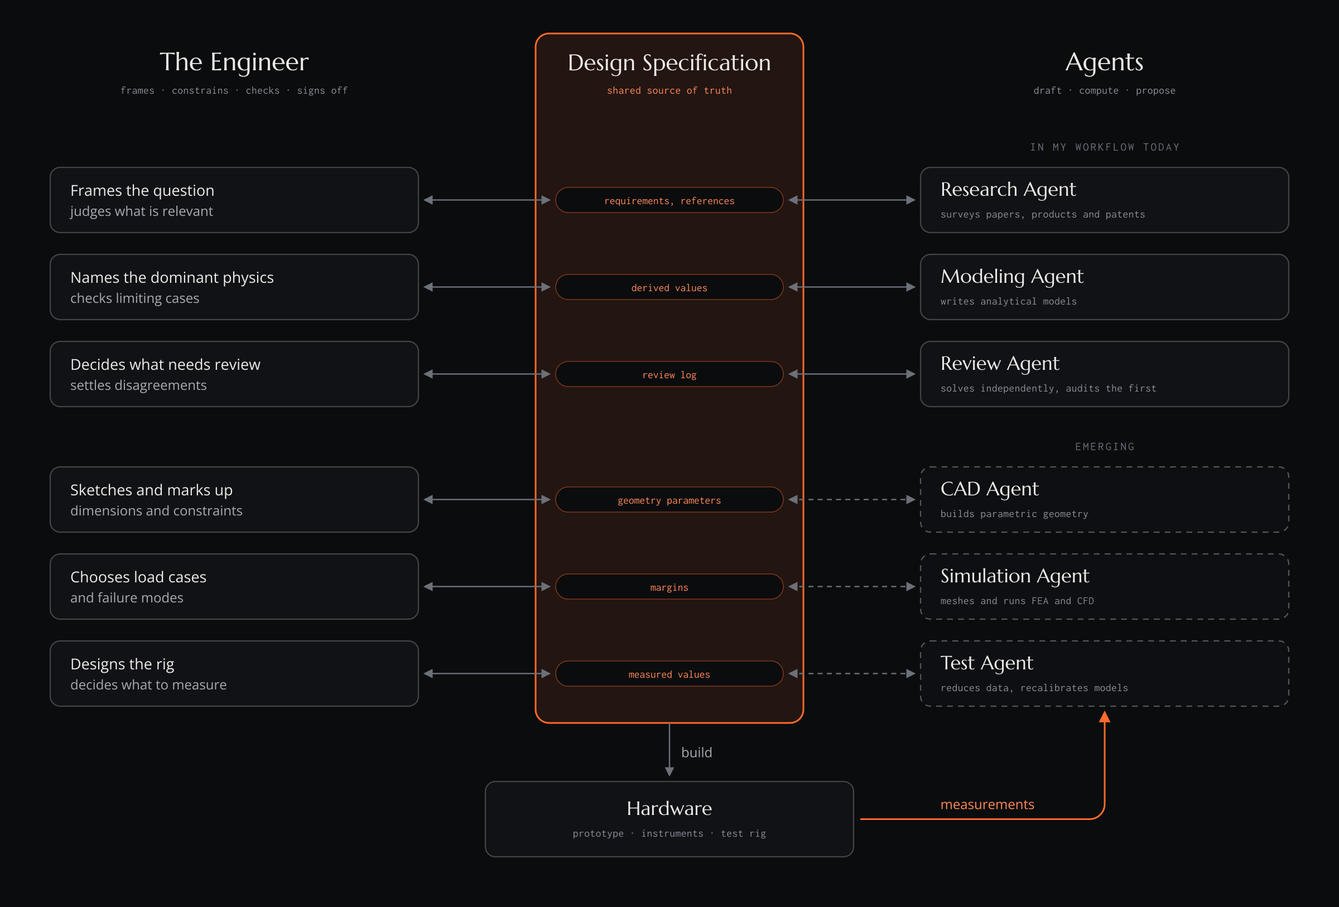
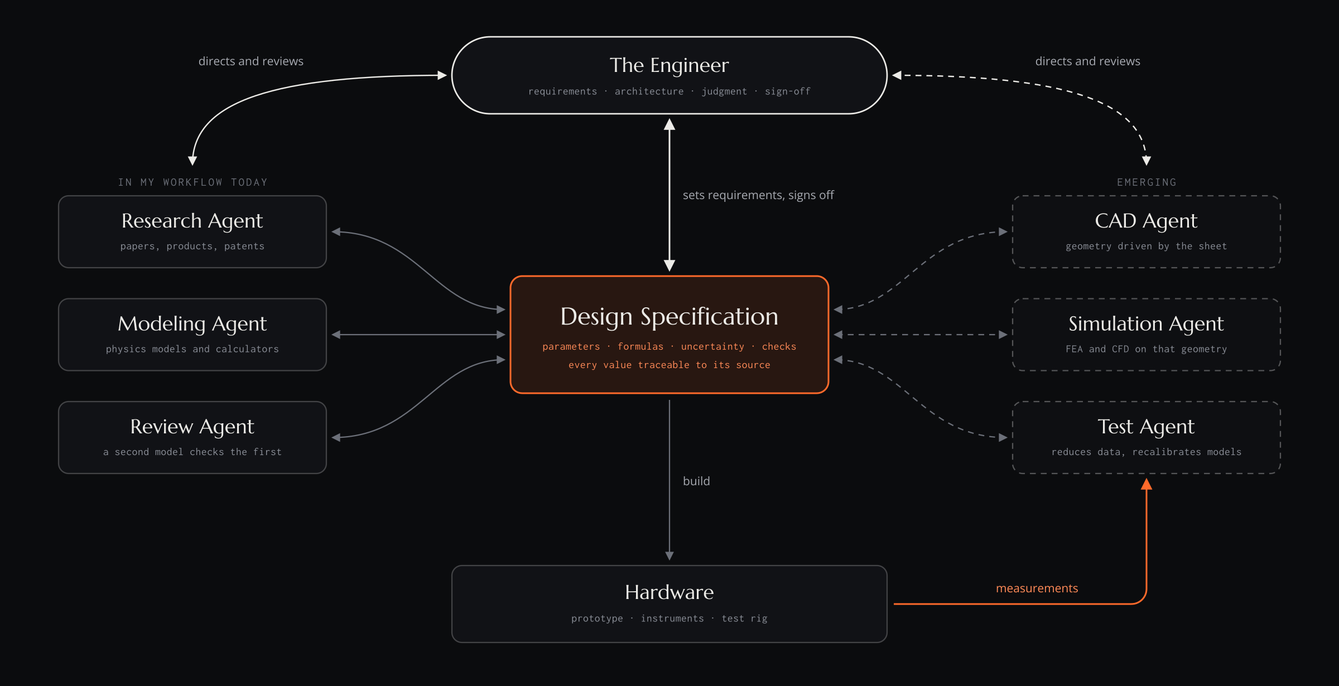
AI in the loop: Sam's edits, general workflow sections, simpler agent figure
Sam's edits through the specification sheet (typos fixed). Physics models,
cross-review, hardware and CAD rewritten shorter and without the reactor
example; design-intent and old spec-sheet figures moved to _unused; agent
figure back to the earlier layout with engineer-agent links; refs 4-5 removed.

Claude-Session: https://claude.ai/code/session_01372tcxn1dU8M3mfUuNSWyh

diff --git a/projects/ai-in-the-loop/article.md b/projects/ai-in-the-loop/article.md
@@ -1,7 +1,7 @@
 ---
 title: "AI in the Loop Mechanical Design: Engineering When Intelligence Is Cheap"
-summary: "How I use AI agents in mechanical design: a traceable specification sheet at the center, agent-built physics models around it, a second model checking the first, and hardware with the final say."
-lede: "AI may change not only how engineering is performed, but what becomes possible to engineer. This is the design workflow I have built around that shift, in which agents accelerate analysis while specifications, physical reasoning and experimental evidence remain the foundation for decisions."
+summary: "How I use AI agents in mechanical design: a traceable specification sheet at the center, physics models built with AI around it, a second model checking the first, and hardware with the final say."
+lede: "AI will change not only how engineering is performed, but what becomes possible to engineer. This is the design workflow I have built around that shift, in which agents accelerate analysis while specifications, physical reasoning and experimental evidence remain the foundation for decisions."
 date: 2026-11
 org: MIT
 period: Fall 2026
@@ -13,97 +13,67 @@ hide_cover: true
 order: -1
 ---
 
-<!-- Rewritten November 2026 from Sam's "Engineering in an Age of Abundant Intelligence" draft and the workflow article. The reactor is described in outline only. Citations are numbered and listed under References. -->
+<!-- Rewritten November 2026 from Sam's "Engineering in an Age of Abundant Intelligence" draft and the workflow article. Citations are numbered and listed under References. -->
 
-## Abundant intelligence
+## The Future of Engineering when Intelligence is Cheap
 
-In 2023, frontier language models could not reliably add four-digit numbers. By 2025 they had won gold at the International Mathematical Olympiad, and in September 2026 an OpenAI system of roughly 10,000 parallel agents produced, in 88 hours, a Lean-formalized resolution of the Navier–Stokes Millennium Prize problem, which mathematicians are now reviewing [1, 2]. Mathematics moved first because it is a wholly verifiable domain: every candidate proof can be checked, so a model can learn through thousands of rounds of practice against an exact standard. AI research is largely verifiable in the same way, and as models begin to automate it, each generation helps build the next. This feedback loop, known as recursive self-improvement, means that even if current systems, or the next generation, cannot produce major scientific breakthroughs, the systems they help create plausibly will. I will point you toward Dwarkesh Patel's recent essay for a fuller development of this argument [1].
+In 2023, frontier language models could not reliably add four-digit numbers. By 2025 they had won gold at the International Mathematical Olympiad, and in September 2026 an OpenAI system of roughly 10,000 parallel agents produced, in 88 hours, a resolution of the Navier–Stokes Millennium Prize problem, which mathematicians are now reviewing [1, 2]. Mathematics, like coding, is a wholly verifiable domain, so a model can learn through thousands of rounds of practice against an exact standard. AI research is largely verifiable in the same way, and as models begin to automate it, each generation helps build the next. This feedback loop, known as recursive self-improvement, means that even if current systems cannot produce meaningful scientific and engineering work, the systems they help create plausibly will. This idea is developed more fully in Dwarkesh Patel's recent essay titled "The avalanche that hit math is coming for AI development" [1].
 
-Much of engineering is verifiable in the same sense. Geometric constraints, interference, dimensional consistency, conservation laws and finite-element margins can all be checked by a computer. The objections usually raised against AI in engineering, that it cannot reason spatially, invents numbers, or lacks judgment, closely resemble those raised against AI in mathematics a few years ago. The computational core of engineering, meaning derivation, modeling, simulation, CAD and code, is likely to follow a similar trajectory.
+The objections usually raised against AI in engineering, that it cannot reason spatially, invents numbers, or lacks judgment, sound familiar to those raised against AI in mathematics a few years ago. The computational core of engineering: CAD, 1st order analysis, finite element modeling, and code, is likely to follow a similar trajectory.
 
-The accelerating capabilities of AI may therefore change not only how engineering is performed, but what becomes possible to engineer. As AI automates computation, simulation, optimization and scientific discovery, it will sharply reduce the cost of exploring new technological possibilities. Breakthroughs in materials, energy, electronics and manufacturing will spread across disciplines. Take, for instance, the possibility of a practical room-temperature superconductor. This one breakthrough alone would propagate a wave that fundamentally changes what is possible with modern electronics, and would require every product involving motors, power transmission, medical imaging or fusion reactors to go back to the drawing board. The consequences may be combinatorial, with progress in one domain creating opportunities in many others.
+The accelerating capabilities of AI therefore change not only how engineering is performed, but what becomes possible to engineer. Breakthroughs in materials, energy, electronics and manufacturing will spread across disciplines. Take, for instance, the possibility of a practical room-temperature superconductor. This one breakthrough alone would propagate a wave that fundamentally changes what is possible with modern electronics, and would require every product involving motors, power transmission, medical imaging or fusion reactors to go back to the drawing board. The consequences are combinatorial, with progress in one domain creating opportunities in many others.
 
-This abundance will not eliminate the challenges of engineering. It will shift them. The work that can only be verified in the physical world will be the slowest to automate: experiments run in serial time, consume material, and depend on physics that simulation and the written record capture poorly, such as contact, wear, manufacturing variation and biological response. Closing that loop autonomously requires capable robots, and robotics is itself a hardware problem bound by the same constraints. As generating and evaluating candidate designs becomes inexpensive, the central challenges move toward formulating meaningful problems, understanding interactions between subsystems, managing physical constraints, and verifying that theoretical solutions work in reality.
+Commoditized intelligence will not eliminate all the challenges of engineering but change the bottlenecks. Work that can only be verified in the physical world will be the slowest to automate. Closing that loop autonomously requires capable robots, and robotics is itself a hardware problem bound by the same constraints. As generating solutions becomes inexpensive, the central challenges move toward formulating meaningful problems, managing physical constraints, and verifying theoretical solutions.
 
-The engineer's role may therefore evolve from executing technical tasks toward directing increasingly powerful computational tools through the process of physical innovation. Fundamental engineering principles remain important, not because humans will always calculate or model better than machines, but because those principles provide the framework for defining constraints, evaluating tradeoffs, designing the experiments that test a model, and interpreting the evidence that comes back.
+The engineer's role may therefore evolve from executing technical tasks toward directing increasingly powerful computational tools. Fundamental engineering principles remain important, not because humans will perform calculations better than the AI, but because those principles provide the framework for defining constraints, evaluating tradeoffs, designing the experiments that test a model, and interpreting the evidence that comes back.
 
-The objective of my AI-in-the-loop design methodology is to explore this relationship between human judgment and machine intelligence in practice. AI accelerates analysis, broadens design exploration and automates implementation, while engineering specifications, physical reasoning and experimental evidence provide a traceable foundation for decisions.
+The objective of my AI-in-the-loop design methodology is to explore this relationship between human judgment and machine intelligence in practice. While we aren't yet in a place where AI is fully capable of replacing engineers for computational work, the tools that exist are already extremely powerful if wielded correctly. As these tools continue to evolve so will this framework to act as a force multiplier for the AI and myself.
 
-## The workflow
+## An AI in the Loop Mechanical Design Workflow
 
-The workflow I've settled into covers the early part of design, from requirements to a model I trust enough to build from. It is organized around one constraint: an agent can produce numbers faster than I can check them, so the structure has to make checking cheap and leave the final word to hardware. I developed it on my own over the last few years of experimenting with AI tools, and refined it in Professor Alex Slocum's precision product design class at MIT, 2.70 FUNdaMENTALs of Precision Product Design [3].
+This mechanical design workflow is intended to take an initial concept to the stages of a working prototype. The main benefit and challenge of a powerful AI agent is that they can write so much code and perform so many calculations that it becomes a monumental task just to verify the product. The key to a successful framework then, is to make verification as easy and traceable as possible. I've developed this workflow over the last few years of experimenting with AI tools, and refined it in Professor Alex Slocum's precision product design class at MIT [3].
 
-Most writing about working with AI comes from people who build software, where the loop is short. My test suite is a part that has to be printed, cured, assembled and measured, so a wrong number can hide for days before it shows up as a leak. I want the agent's speed without giving up the thing a mechanical engineer can't do without, which is knowing where every number came from.
+
 
 ![The workflow as loops around the design specification. The model loop is fast and runs constantly, the cross-review loop runs on request, and the hardware loop is the slowest and the only one that validates anything.](nested-loops.png "wide")
 
-As a running example I'll use a 15 mm aluminum-water reactor I'm developing, a capsule that meters water onto aluminum to make hydrogen for untethered soft robots. I describe it only in outline because the work isn't published yet.
+
 
 ### Requirements
 
-Every project starts as a conversation. Before anything is calculated, I use the AI to argue with me about what the system has to do and what constrains it, starting broad and challenging my assumptions. From there we look for prior art in papers, commercial products and patents, because if someone has already built the wheel I would like to know before I design a worse one. When the requirements really do demand something new, I ask for several parallel concepts before converging on one.
-
-In this stage the AI is a good sparring partner and a poor decision maker. It doesn't know which constraint I would trade away under pressure, and it has never been surprised by a prototype, so the requirements and the choice of architecture stay with me.
+Every project starts as a conversation. Before anything is calculated, I use the AI to argue with me about what the system has to do and what constrains it, starting broad and challenging my assumptions. From there we look for prior art in papers, commercial products and patents. 
 
 ## The specification sheet
 
-The center of the workflow is a spreadsheet I call the design specification. It works as a numerical twin of the design: every geometry, load, material property and assumption lives in it, every derived quantity is a live formula, and the CAD is built from it.
+The center of the workflow is a design specifications spreadsheet that works as a numerical twin of the design: geometry, load, material property come from requirements and constraints and flow into live calculations stored in the sheet.
 
-![An excerpt from the reactor's specification sheet, redrawn with values rounded to their uncertainty.](spec-sheet-anatomy.png "wide")
+![An excerpt from a design specification sheet.](spec-sheet.png "wide")
 
-Inputs are black and carry a source, which can be a datasheet, a requirement, or the reason I chose the value. Derived values are red, and beside each one Excel's `FORMULATEXT` function prints the formula that produced it, so the calculation can be read without clicking into a cell. Most values also carry an uncertainty, drawn from a separate sheet that budgets the error from fabrication, assembly, purchased parts and measurement. The sheet ends in checks, each of which passes only when its margin is larger than its own uncertainty. I also keep the number of decimal places honest about how well a value is known, which needs watching because an agent will happily report a stiffness to six digits.
+Inputs are black and carry a source, which can be a datasheet, a requirement, or the reason I chose the value. Derived values are red, and beside each one Excel's FORMULATEXT function prints the formula that produced it, so the calculation can be read without clicking into a cell. Most values also carry an uncertainty, drawn from a separate sheet that budgets the error from fabrication, assembly, purchased parts and measurement. PASS/FAIL checks are integrated throughout the sheet so that key requirements can be verified at a glance. 
 
-Two habits from precision machine design are built into it. The uncertainty sheet is an error budget, the same tool a machine designer uses to decide which error sources deserve attention, applied here to a whole device. The source column follows Slocum's FRDPARRC tables, which pair every functional requirement and design parameter with its analysis, references and risks, so that no number enters the design without a reason written next to it [4].
+## Physics models
 
-For the reactor, the sheet holds 58 inputs and 107 derived values across dimensions, forces, pump dynamics and the drive coil, and it ends in a summary page of 14 pass or fail checks. If I change one wall thickness, everything downstream moves and the summary tells me what broke.
+Once the requirements and constraints are in the sheet, the AI and I build the physics models together. I identify the dominant effects and choose the approach, the AI drafts the derivations and calculations, and I check each result against limiting cases and physical intuition before it enters the sheet. Models that would take days to derive by hand take hours, which makes it practical to explore a design space instead of defending the first design that works. Cheap models also change how architectures are chosen: rather than committing early to one concept, several can be modeled against the same constraints and compared on equal footing.
 
-An agent could build me an interactive app with sliders in the same time, and those interfaces are popular because they make good demos, but they hide the arithmetic. A spreadsheet shows its work, so when a number looks wrong I can follow it back through every cell that fed it, and so can anyone I hand the file to. The more of the arithmetic an agent writes, the more that matters.
-
-## Agent-built models
-
-With the specification in place, the agent builds the physics. I describe the dominant effects and it writes the model: stoichiometry for the reaction, the bending and stretching of a diaphragm, pressure drops through a valve, the force between a coil and a magnet, and the heat the coil sheds. I could derive each of these by hand from a textbook, slowly, but the agent drafts them quickly enough that I can explore a design space instead of defending the first design that works.
-
-Cheap models also change how I choose an architecture. Hydrogen can power a soft robot in several ways: the gas can expand directly as the working fluid, a fuel cell can convert it to electricity that drives a pump, or the two can be combined. When each model costs an afternoon, I don't have to commit to one of these early and defend it. I can have the agent build all of them against the same constraints from the sheet and see which combinations of physics make sense at a given size and duty cycle.
-
-Excel has been enough for everything in the reactor. When a model outgrows it I move to Python, and there I prefer Jupyter notebooks to loose scripts for the same reason I prefer spreadsheets to apps: a notebook keeps the equations, assumptions, code and outputs together in the order they were computed.
-
-Some of these calculations are useful beyond one project. Once one of them has been checked, such as a bolted joint, a shaft fit or a motor sizing, it goes into a toolkit and comes along to the next project. Over time the toolkit is where the speed compounds, because each verified tool is one less thing an agent has to derive from scratch and one less thing I have to check again.
+Excel is enough for most first-order models. When a model outgrows it I move to Python, preferably Jupyter notebooks, which keep the equations, assumptions, code and outputs together in the order they were computed. Calculations that generalize, such as a bolted joint, a shaft fit or a motor sizing, go into a verified toolkit once they have been checked, so each project starts further along than the last.
 
 ## Cross-review
 
-The output of a single AI model is low confidence, however sure it sounds, so for anything that matters I bring in a second model from a different lab. It first works out how it would attack the problem without looking at the existing solution, and only then reviews that solution critically. The two models keep a shared review log in the project folder, which lets either one pick up where the other left off. Because all of this costs time and money, it runs only when I ask.
-
-An early version of the reactor model was written in Python, and it ran without complaint. When the second model reviewed it, it found six groups of defects and reproduced each one before reporting it. A sensitivity study was returning zeros because it looked up results by display labels that had since been renamed. The water dose was computed and then never passed to the gas generation model, so a 1 ms pulse and a 100 ms pulse gave identical hydrogen curves. The dose formula also jumped by a factor of two at one particular pulse width. When the first model looked at the evidence, it agreed with all three.
-
-None of those errors would have crashed anything, and each would have produced a plausible plot. That is why the working agreement both agents now follow includes the line that numerical agreement and passing checks are not physical validation.
-
-Precision metrology offers a useful comparison. Donaldson reversal separates a spindle's error motion from the form error of its test ball by measuring twice, with the ball and probe rotated 180 degrees, so that one error changes sign and the other does not [5]. Cross-review is a loose analogue for models: where two independently trained models disagree, at least one is wrong, and the disagreement shows where to look. The analogy has a limit, because models from different labs learn from much of the same text and their errors are not fully independent.
+The output of a single AI model is low confidence, however sure it sounds. For anything that matters, a second model from a different lab first works out its own approach without looking at the existing solution, then reviews that solution critically. The two models keep a shared review log, and because review costs time and money, it runs only when I ask. It regularly catches errors that would never crash the code but still produce a plausible plot, such as a quantity computed and never passed downstream. Agreement between models is still not validation.
 
 ## Hardware in the loop
 
-Two models agreeing still isn't the same as being right, which leaves hardware as the outermost loop and the only one that validates anything. It is also the part of engineering I expect to remain hardest to automate.
+Hardware is the outermost loop and the only one that validates anything. Every estimate in the specification is labeled as an estimate, and testing replaces estimates with measurements; a printed coupon of pins, holes and thin walls, for example, turns an assumed print tolerance into a number with scatter. When a measurement enters the sheet, the uncertainty on everything downstream updates and the checks re-evaluate. When a test disagrees with a prediction, the work is to find which assumption failed, correct it in the sheet, and decide what to measure next.
 
-What this loop looks like changes with every project, but in all of them every estimate in the specification is labeled as an estimate, and testing replaces estimates with measurements. In the reactor's error budget, for example, the print tolerance began as a guess, and a small printed coupon of pins, holes and thin walls turns that guess into a number with scatter. Once a measurement goes into the sheet, the uncertainty on everything downstream of it shrinks or grows, and the checks re-evaluate themselves.
+## CAD
 
-When a test disagrees with a prediction, the useful response is to find which assumption failed, change it in the sheet where every downstream number can see it, and decide what to measure next.
-
-## CAD and design intent
-
-The transition to AI-assisted engineering also demands a different relationship with our tools. Conventional CAD requires the engineer to translate intent into a sequence of explicit modeling operations. AI-native environments could reverse this, allowing engineers to express intent through language, sketches, dimensions and physical constraints while AI translates that information into editable, verifiable models.
-
-Current tools are partway there. I've found AI useful for standard parts such as a bracket or a simple housing, which it can model quickly from a drawing, but for complex parts spatial reasoning is still the weak point. Part of that weakness, I suspect, is bandwidth: a three-dimensional layout is hard to convey in text, which is why engineers sketch and mark up drawings rather than describe geometry in paragraphs.
-
-In the interface I'd want, I sit at a desk with a text window and a drawing tablet. I upload reference drawings for the purchased parts, describe the object in a few sentences, and sketch the rough layout. The agent compiles that into a parametric model, which appears on the tablet, and I edit it the way I'd mark up a print: circling a flange and writing "stiffer, no more than 20 g," drawing a dimension that should be fixed, or drawing a line between two bores to say they stay coaxial.
-
-![A sketch of an intent-driven CAD edit. Marks on the tablet become explicit constraints, and the agent answers with options written as rows in the specification sheet, each showing its consequences before I accept it. The part and the numbers are illustrative.](design-intent.png "wide")
-
-Each mark should become an explicit constraint with a record of where it came from. The agent should keep a parametric record of intent, separate my requirements from its own assumptions, and return proposed edits with their consequences for me to accept or reject. A model that can't be modified, analyzed or traced back to its requirements isn't worth much, however good it looks. The specification sheet is how I'm preparing for that: if every dimension already lives in one traceable place, the sheet is the natural place for an agent's proposals to land.
+Conventional CAD requires the engineer to translate intent into a sequence of explicit modeling operations. AI-native tools could reverse this, letting engineers express intent through language, sketches, dimensions and constraints while AI produces editable, parametric models. Because every dimension already lives in the specification sheet, the sheet is the natural interface for that handoff.
 
 ## Outlook
 
-![How I expect engineering work to divide between an engineer and agents. Every exchange passes through the design specification, so each contribution stays traceable. Solid rows are part of how I work now; dashed rows are where I expect agents to arrive.](agentic-workflow.png "wide")
+![A speculative division of work between an engineer and AI agents around the design specification. Solid boxes are part of my workflow today; dashed boxes are where I expect agents to arrive.](agentic-workflow.png "wide")
 
-In this division of labor the agents do most of the execution, and the engineer frames each problem, sets its constraints, checks what comes back, and signs for the result. The more work I delegate, the more I need to audit it quickly, which is why the specification sheet stays plain and why I don't hand over work I can't check.
+In this division of labor the agents do most of the execution, and the engineer frames each problem, sets its constraints, checks what comes back, and signs for the result. The more work is delegated, the more important it becomes to audit it quickly, which is why the specification sheet stays plain and nothing is handed over that can't be checked.
 
 The ultimate goal is not simply to design existing things faster, but to make it practical to investigate systems that would previously have been too complex, costly or time-consuming to develop.
 
@@ -112,5 +82,3 @@ The ultimate goal is not simply to design existing things faster, but to make it
 1. D. Patel, "The avalanche that hit math is coming for AI development," November 2026. [dwarkesh.com/p/rsi](https://www.dwarkesh.com/p/rsi)
 2. A. Azhar, "Unsolved for 90 years, OpenAI says AI cracked Millennium Prize problem in 88 hours," *HPCwire*, September 2026. [hpcwire.com](https://www.hpcwire.com/aiwire/2026/09/16/unsolved-for-90-years-openai-says-ai-cracked-millennium-prize-problem-in-88-hours/)
 3. A. Slocum, 2.70 FUNdaMENTALs of Precision Product Design, MIT. [web.mit.edu/2.70](https://web.mit.edu/2.70/)
-4. A. Slocum, "FRDPARRC," MIT 2.007 Design and Manufacturing I, 2009. [ocw.mit.edu](https://ocw.mit.edu/courses/2-007-design-and-manufacturing-i-spring-2009/resources/mit2_007s09_rec05_frdparrc)
-5. R. Grejda, E. Marsh and R. Vallance, "Techniques for calibrating spindles with nanometer error motion," *Precision Engineering* 29, 113 (2005). [doi:10.1016/j.precisioneng.2004.05.003](https://doi.org/10.1016/j.precisioneng.2004.05.003)
